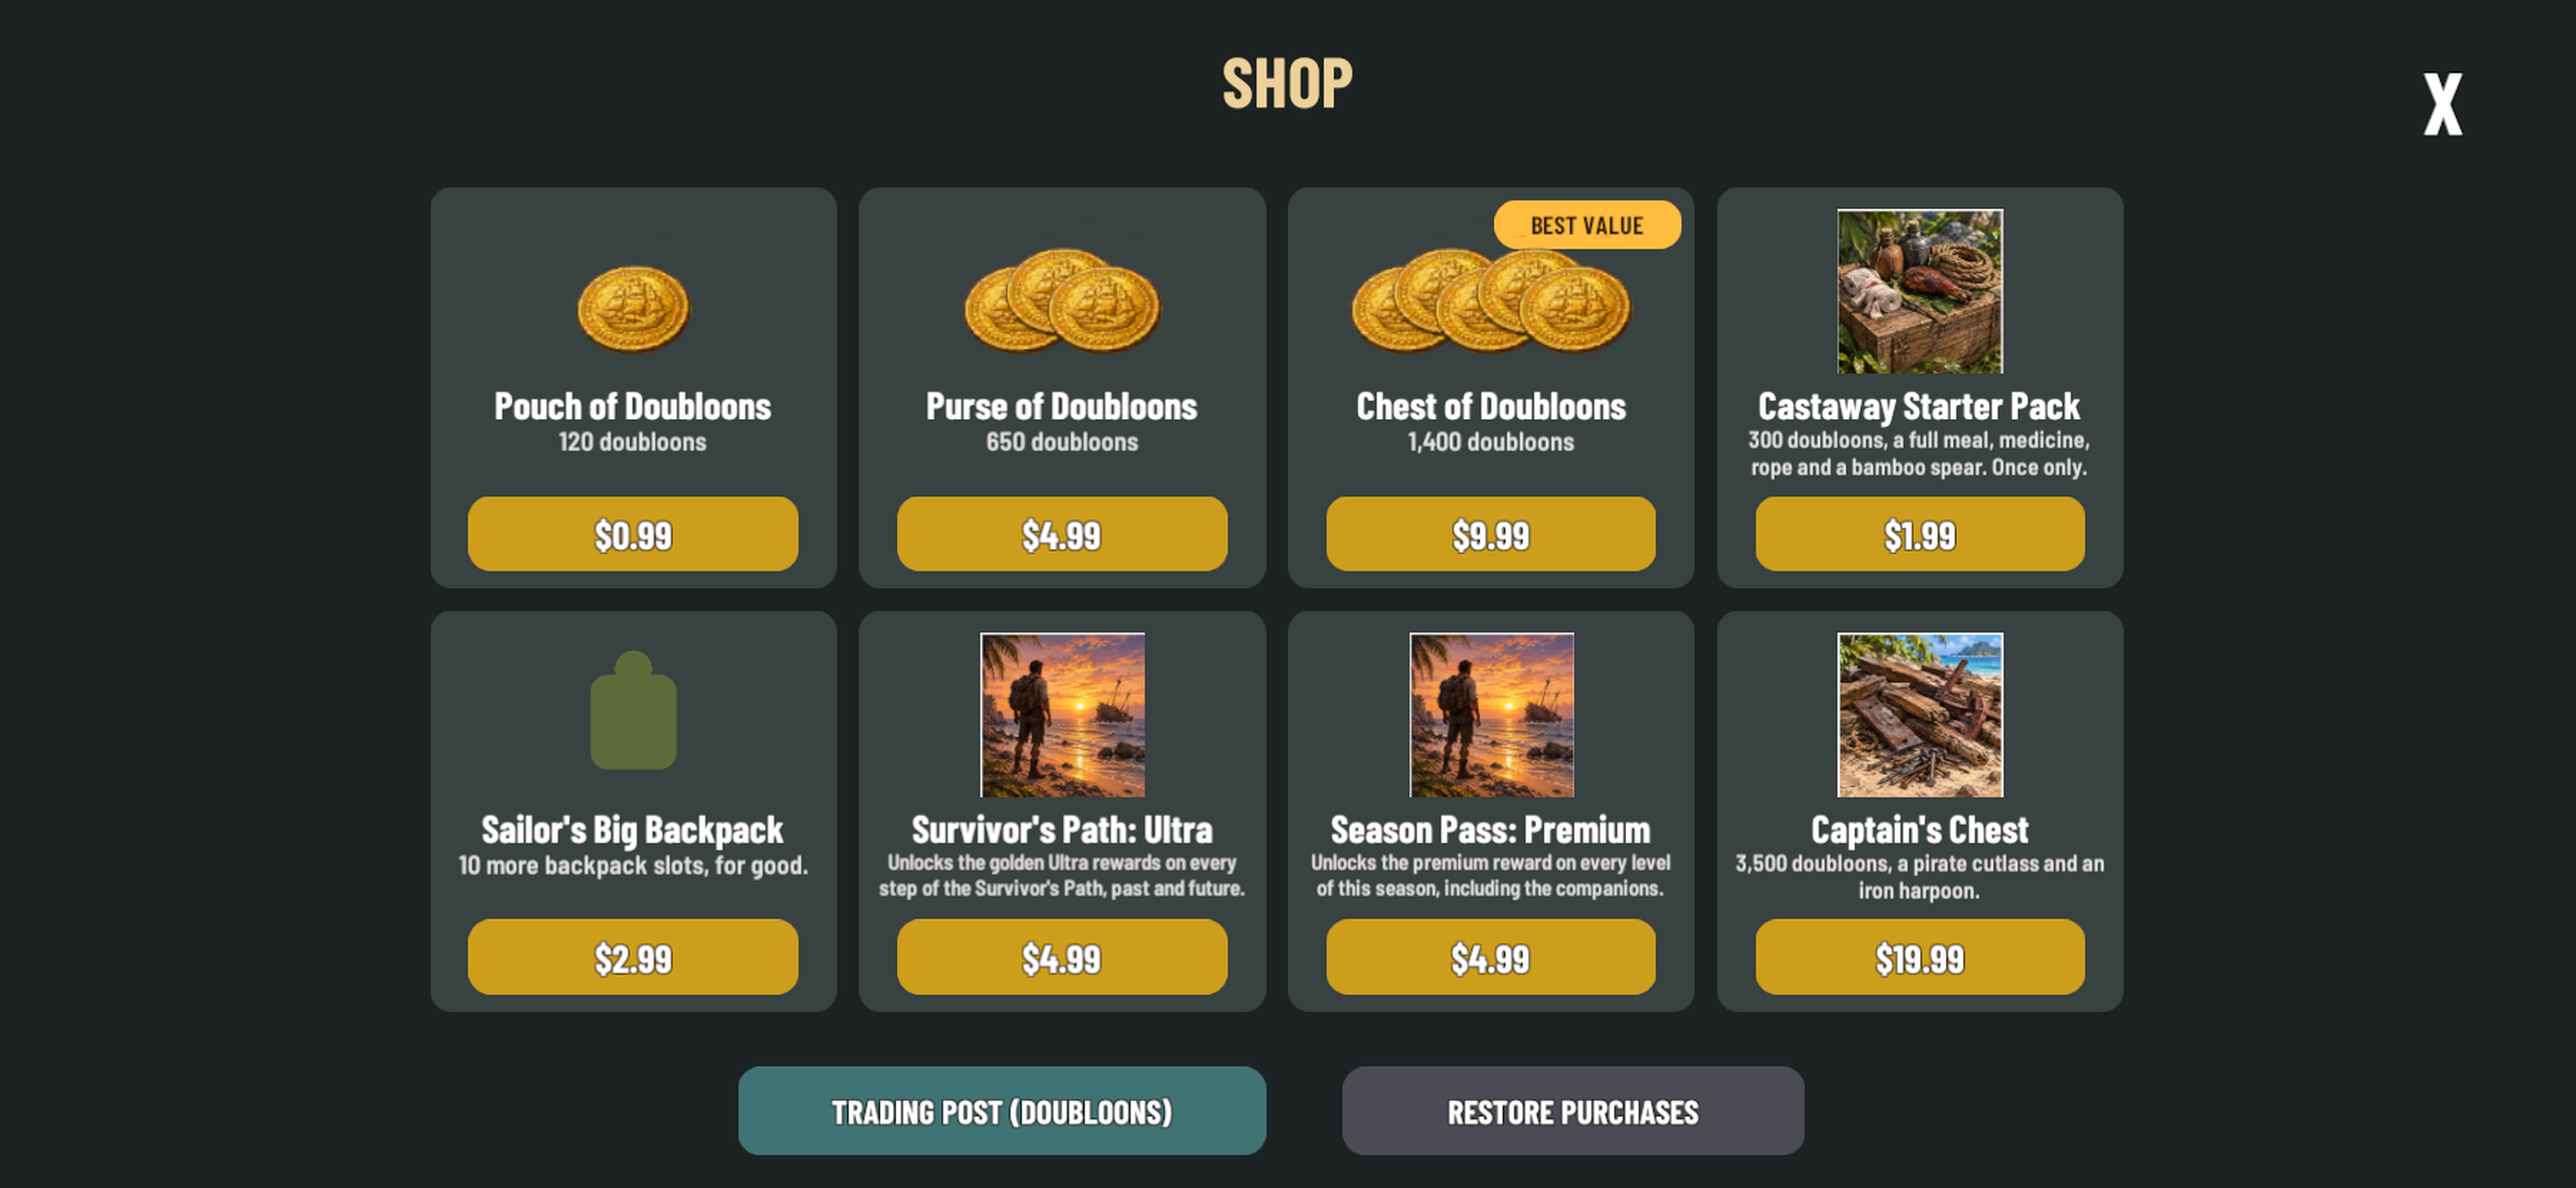
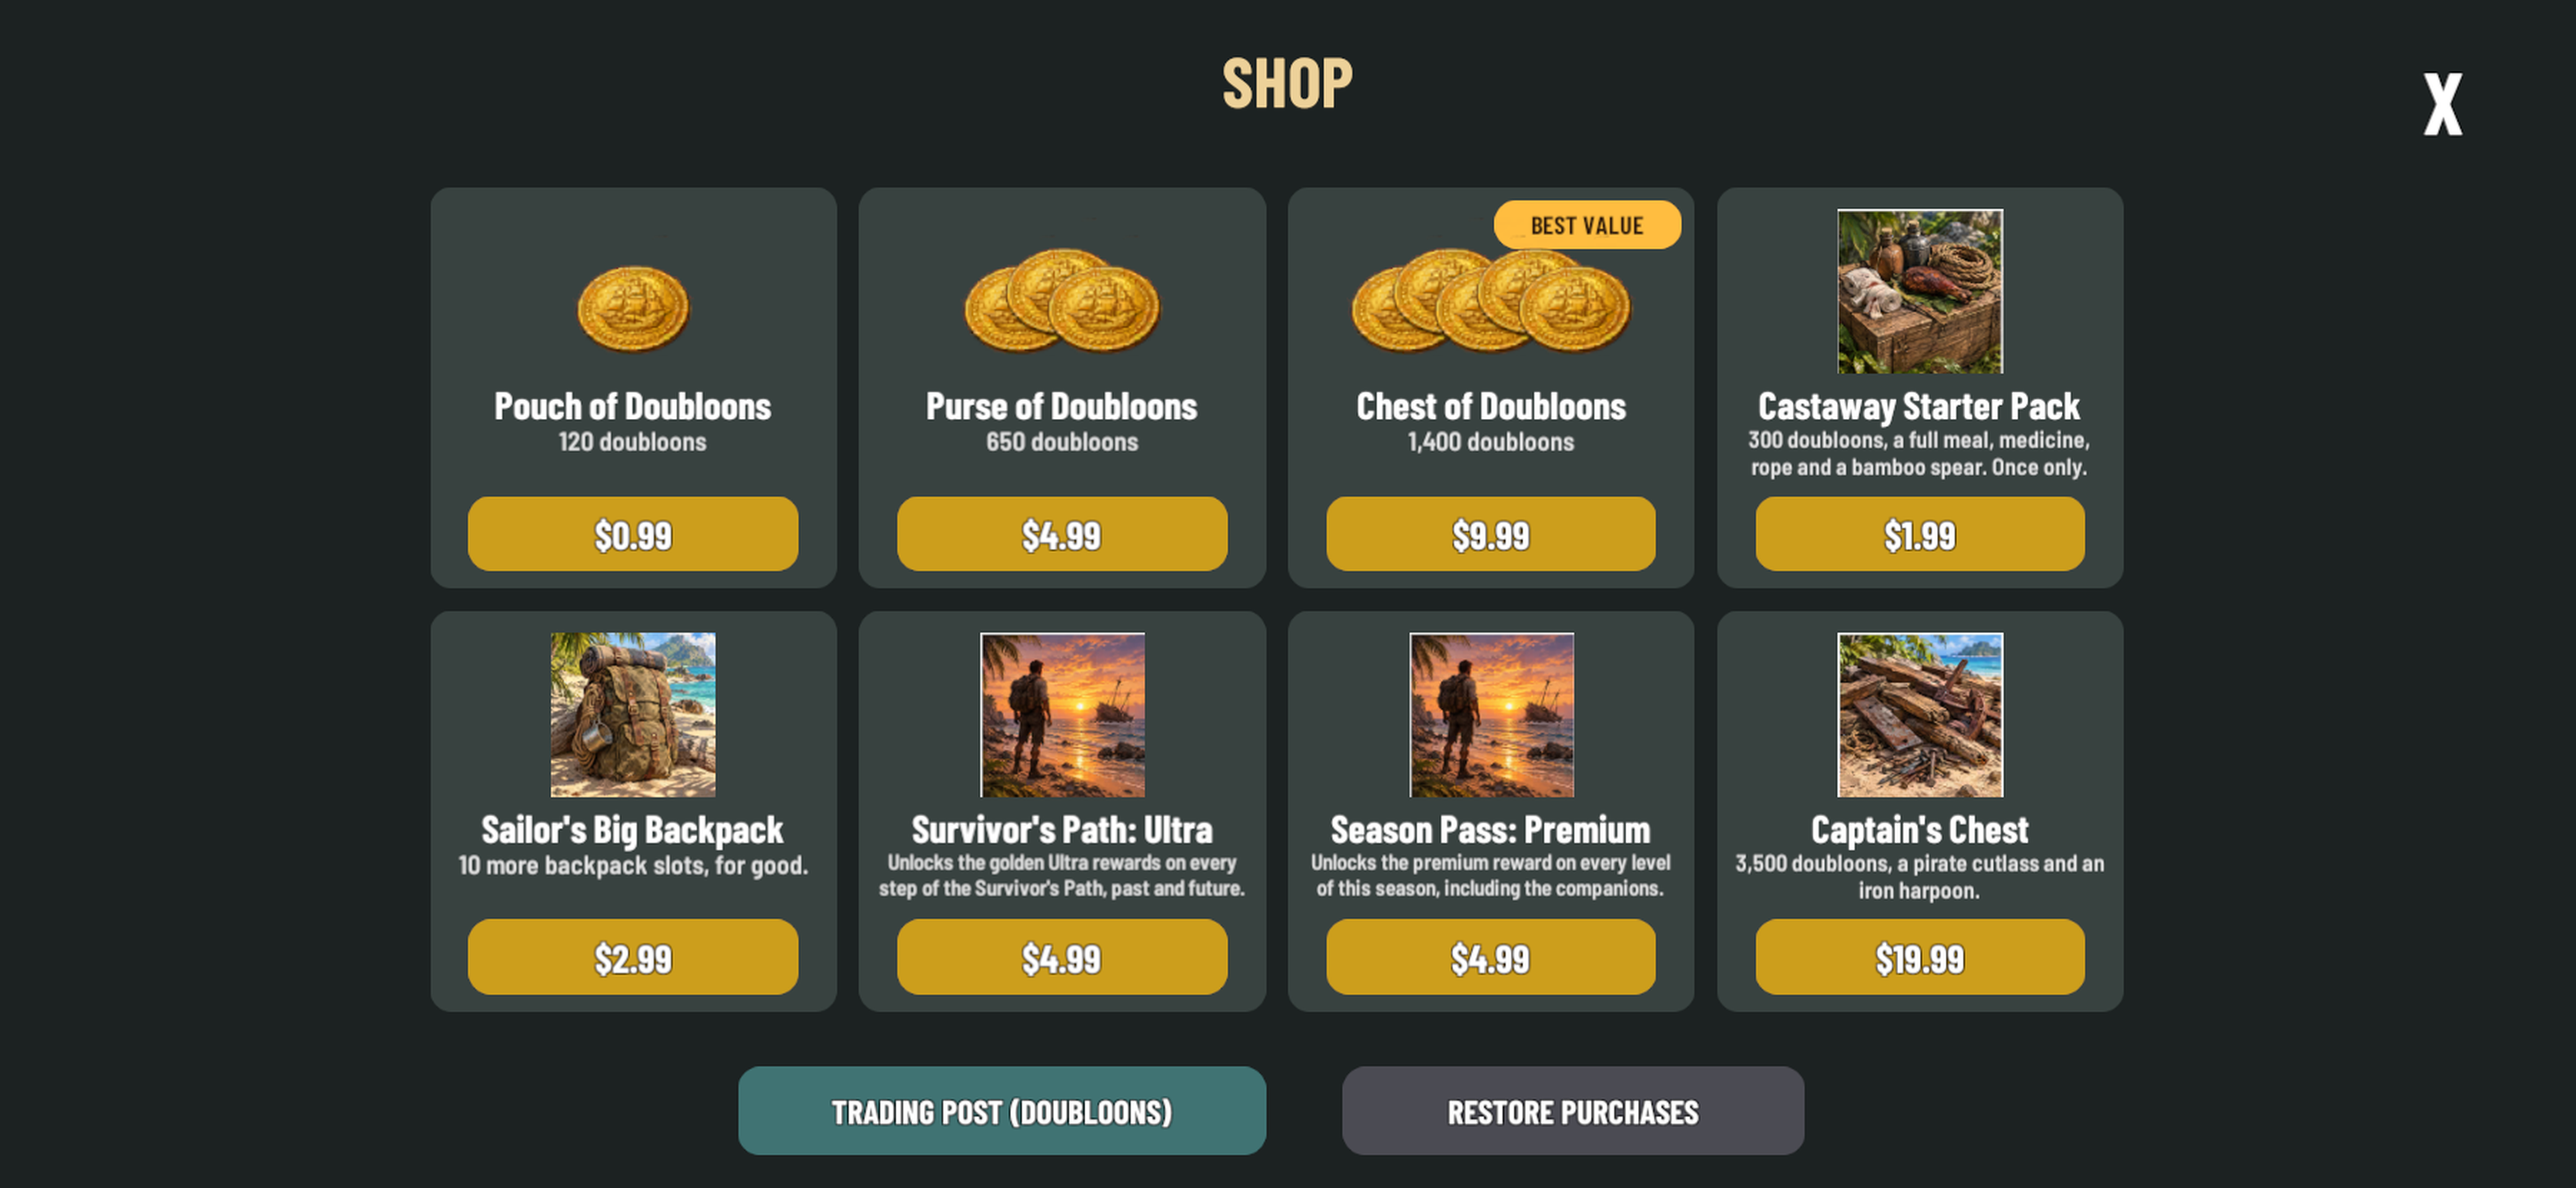
Review screenshot with the painted backpack card; iap.py replaces a changed one
docs/appstore/iap_review.png is the SHOP again, now with the Sailor's Big Backpack painting. iap.py compares
each product's uploaded screenshot with the file's MD5 and replaces it when they differ.

Claude-Session: https://claude.ai/code/session_012yMWpPJ26rNyj4EWvGoyec

Changed region(s): [[0.1867, 0.5271, 0.28, 0.6822]]

diff --git a/Tools/appstore/iap.py b/Tools/appstore/iap.py
@@ -6,8 +6,9 @@
 For every product in PRODUCTS (the same ids, names and prices as Catalog.Products in Core/Session.Store.cs) it makes
 sure there is: the in-app purchase, an en-US display name and description, a price (set in the USA, other storefronts
 follow Apple's equivalents), availability in every territory and the App Store review screenshot (the in-game SHOP,
-docs/appstore/iap_review.png, read from this repo's main branch on GitHub or from IAP_SCREENSHOT, a path or URL).
-Anything already there is left alone, so running it again is safe.
+docs/appstore/iap_review.png, read from this repo's main branch on GitHub or from IAP_SCREENSHOT, a path or URL; a
+screenshot whose checksum differs from that file is replaced). Anything already there is left alone, so running it
+again is safe.
 """
 import hashlib
 import json
@@ -168,16 +169,15 @@ def main():
                     "availableTerritories": {"data": [{"type": "territories", "id": t} for t in territories]}}}})
             print("  available in %d territories" % len(territories))
 
+        if png is None:
+            png = screenshot_bytes()
         shot = call("GET", "/v2/inAppPurchases/%s/appStoreReviewScreenshot" % iap, ok404=True)
-        state = ((shot or {}).get("data") or {}).get("attributes", {}).get("assetDeliveryState") or {}
-        if state.get("state") in ("UPLOAD_COMPLETE", "COMPLETE"):
-            pass
-        else:
+        attrs = ((shot or {}).get("data") or {}).get("attributes", {})
+        done = (attrs.get("assetDeliveryState") or {}).get("state") in ("UPLOAD_COMPLETE", "COMPLETE")
+        if not (done and attrs.get("sourceFileChecksum") == hashlib.md5(png).hexdigest()):
             if shot and shot.get("data"):
-                # A reservation that never finished uploading: drop it and start again.
+                # A different picture, or a reservation that never finished uploading: replace it.
                 call("DELETE", "/v1/inAppPurchaseAppStoreReviewScreenshots/" + shot["data"]["id"])
-            if png is None:
-                png = screenshot_bytes()
             upload_screenshot(iap, png)
             print("  review screenshot (%d bytes)" % len(png))
 
